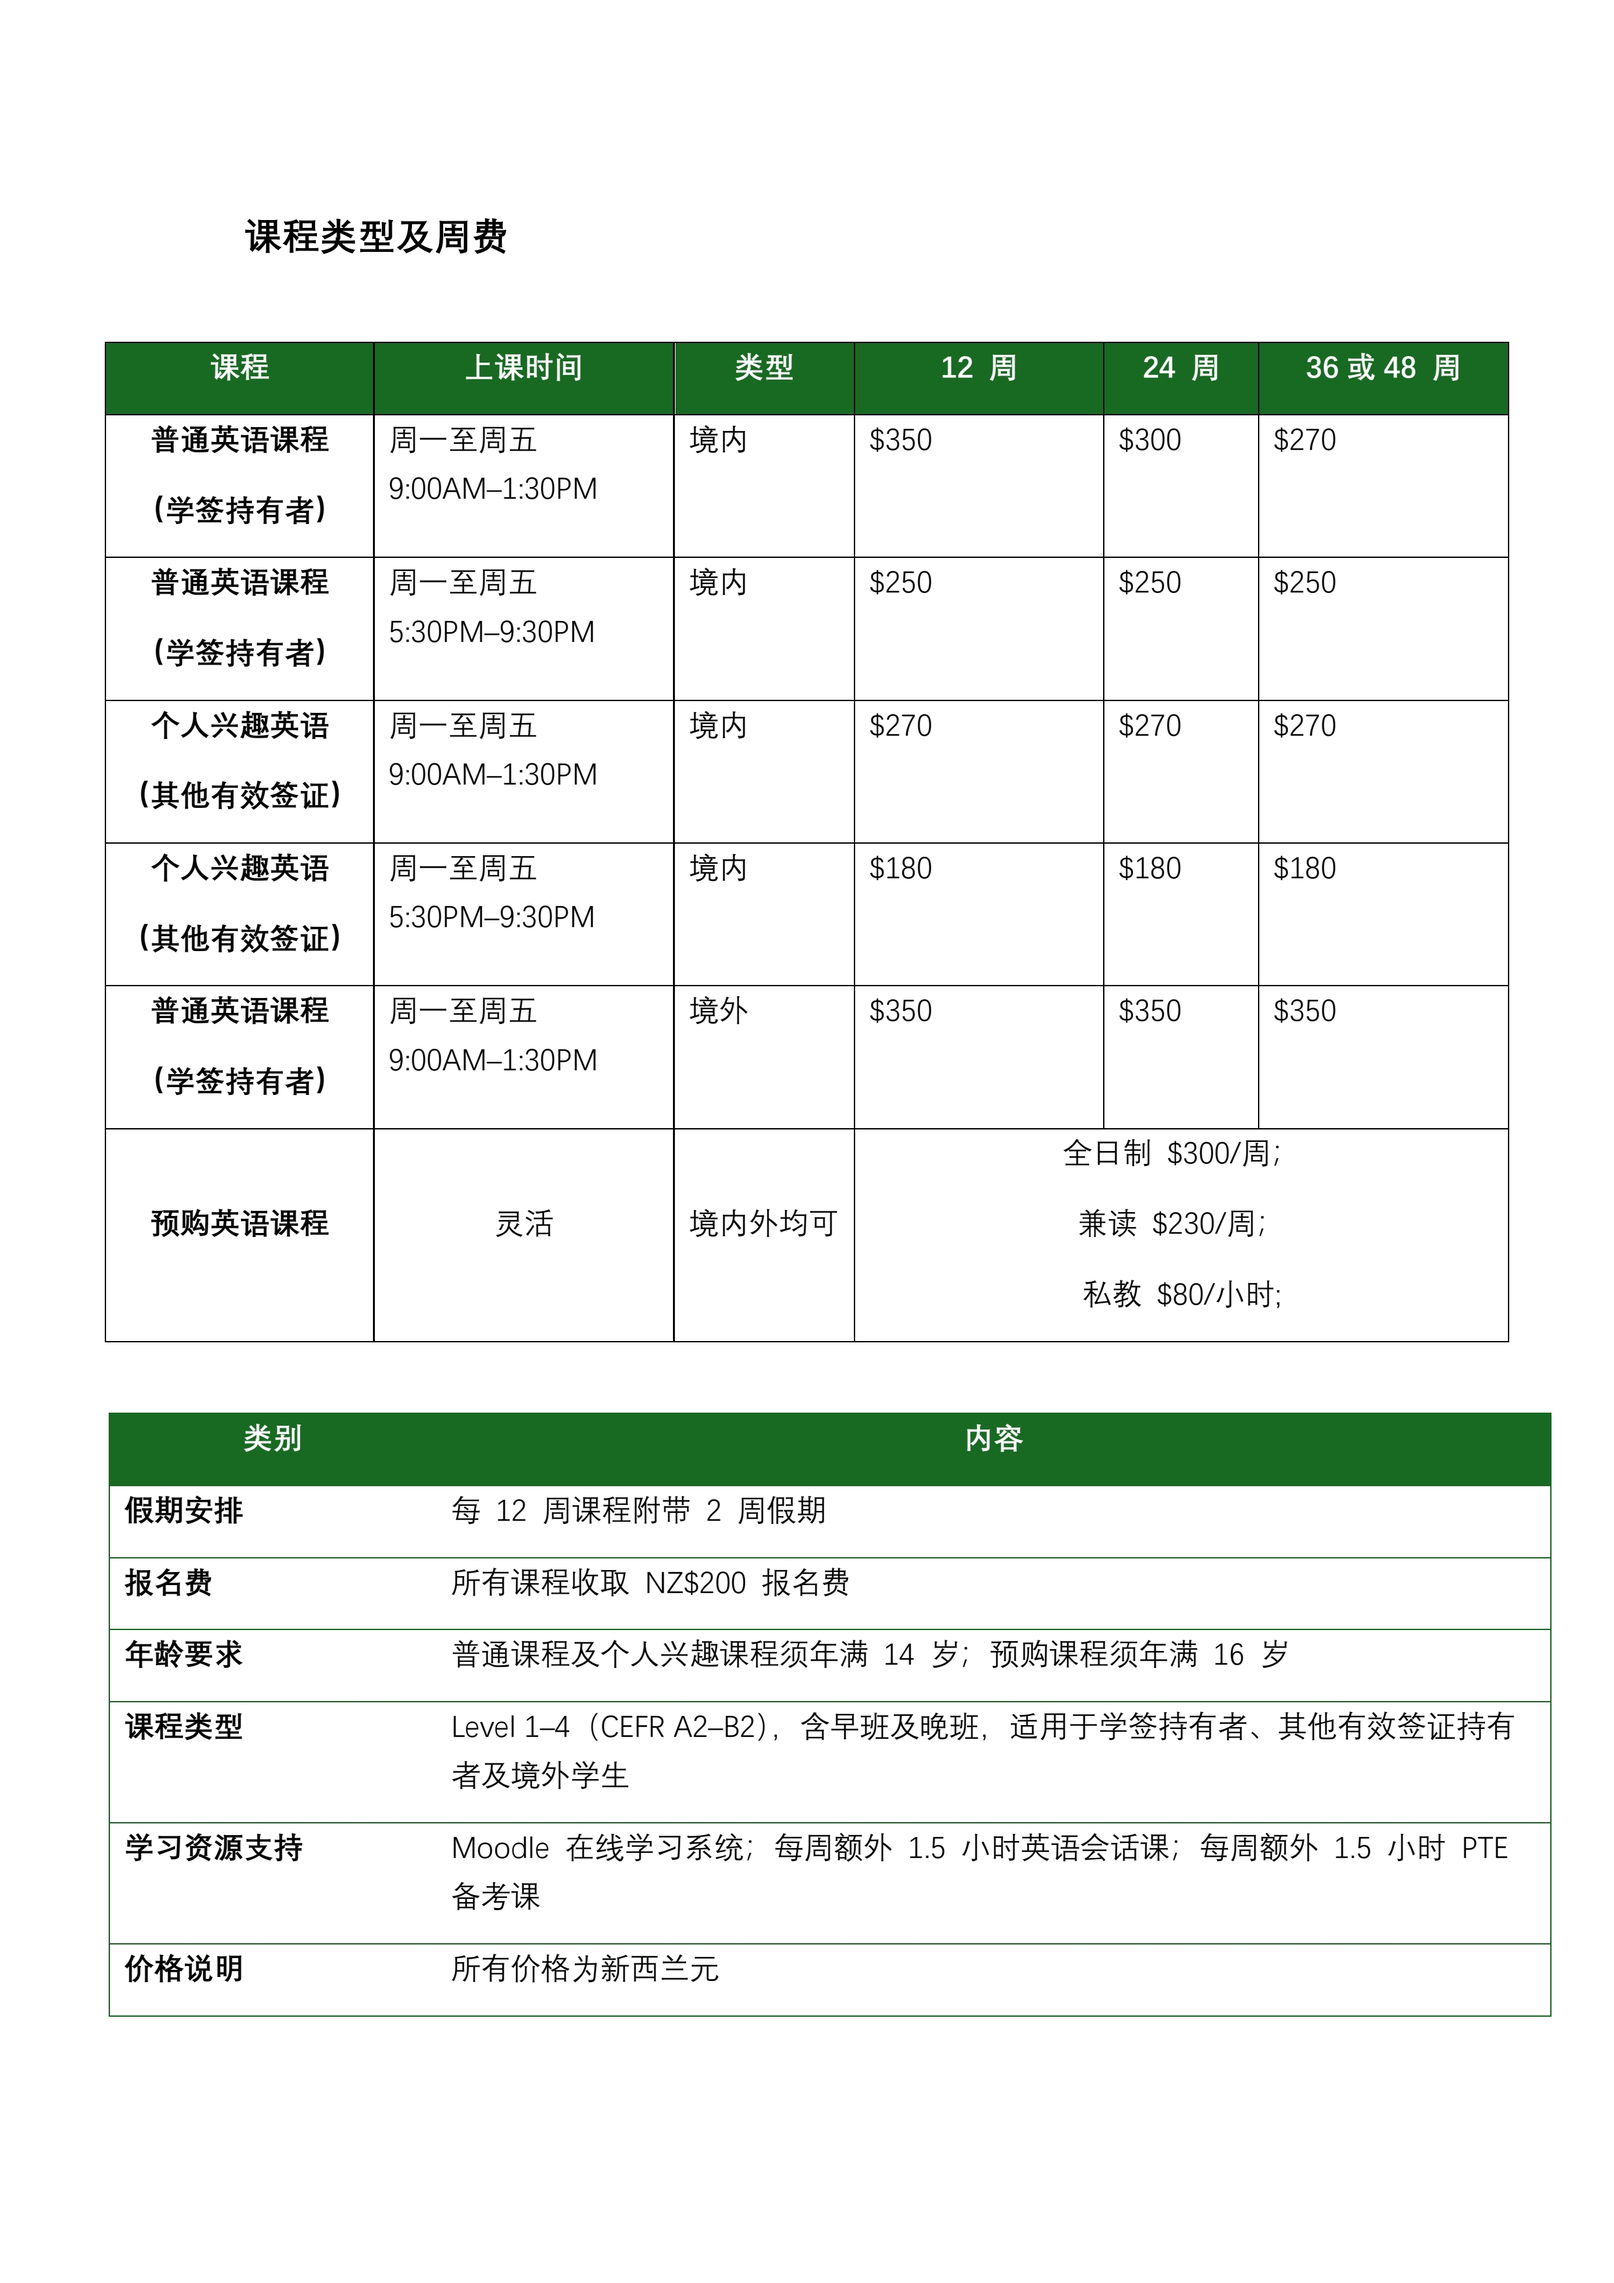
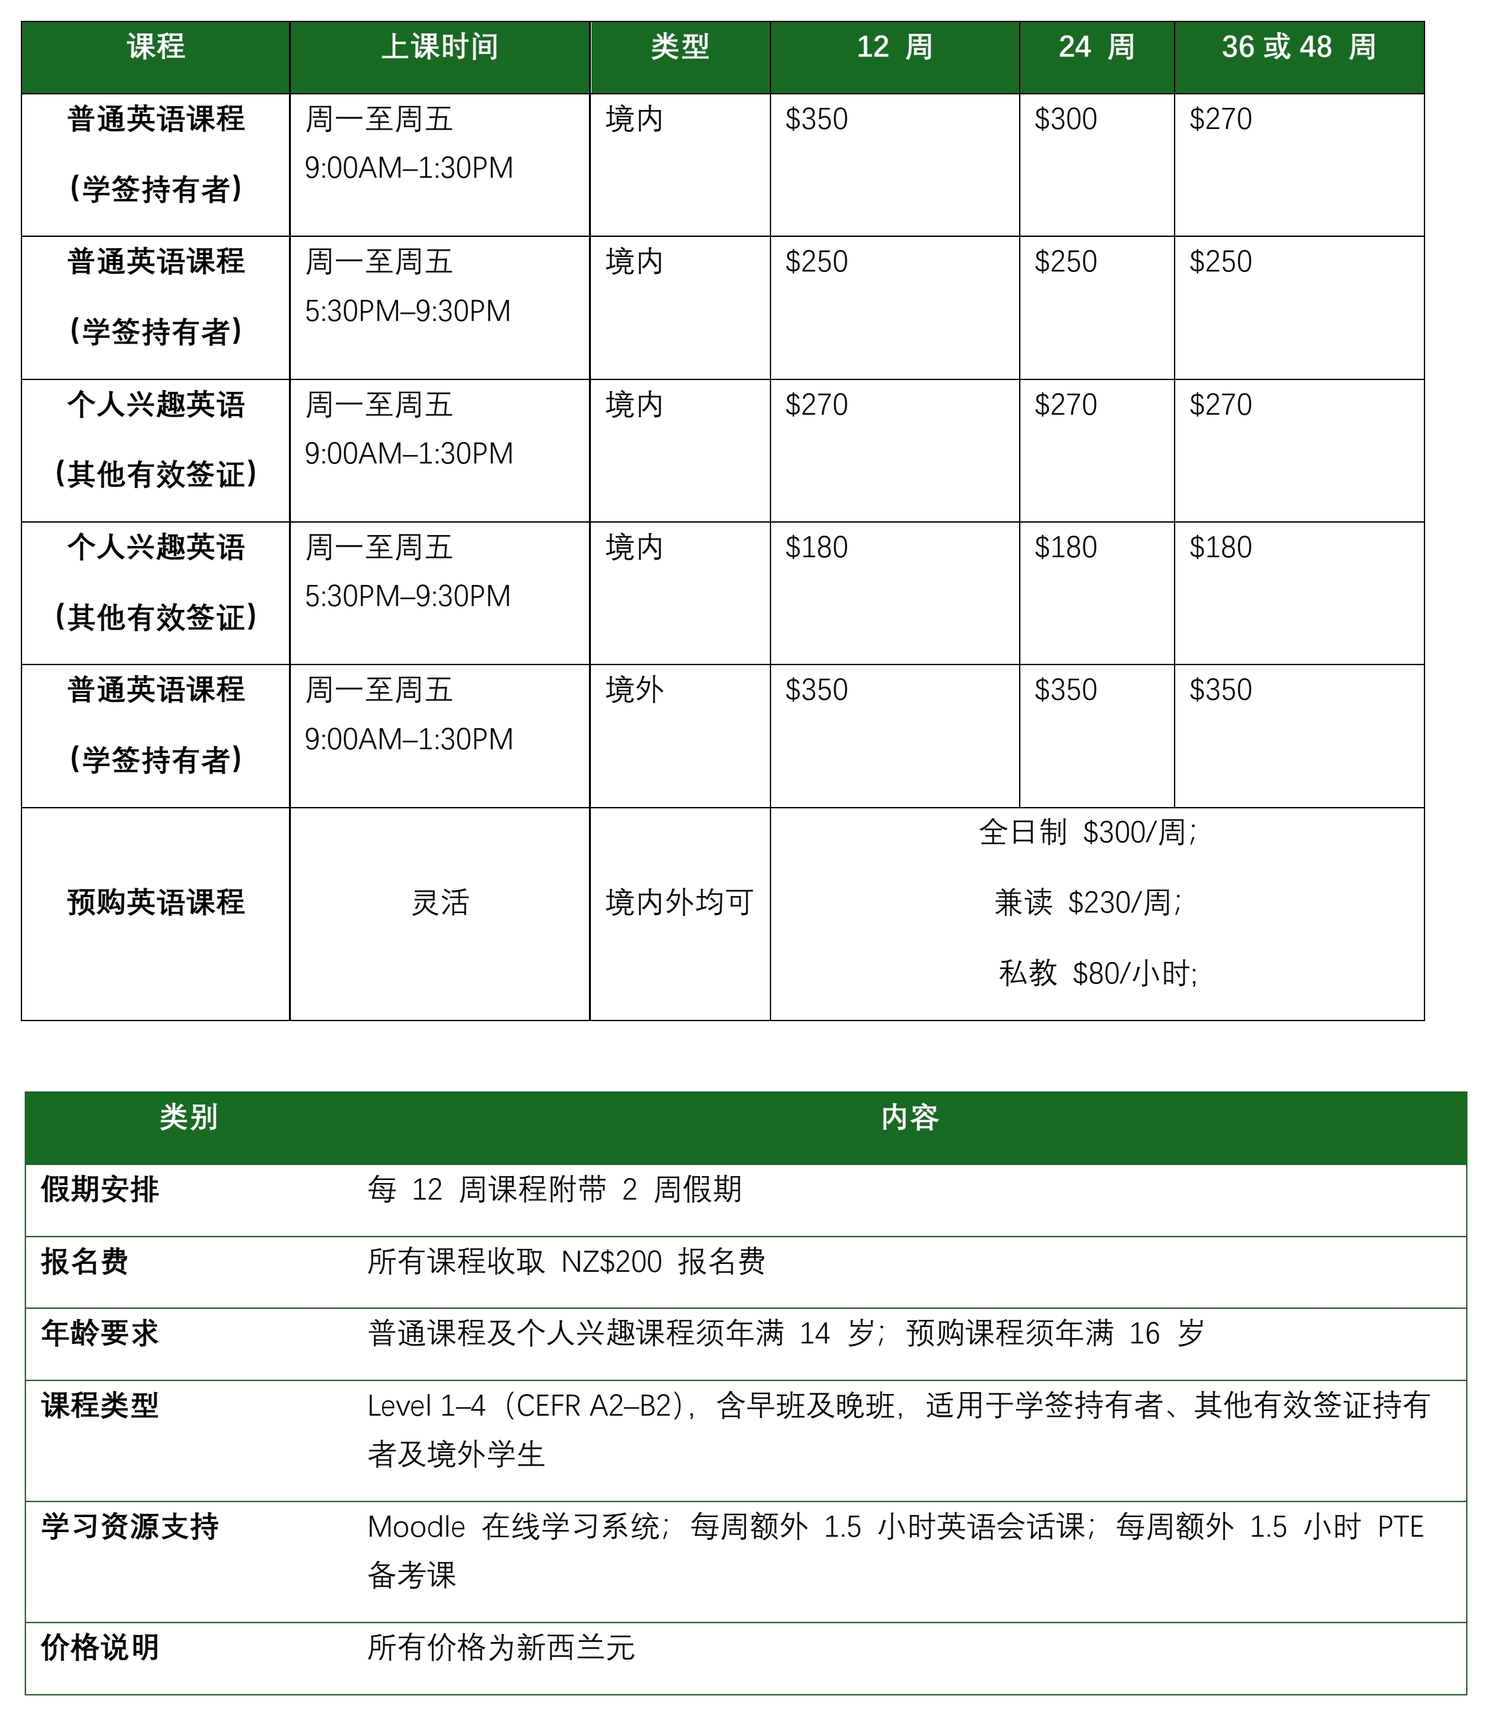
up

diff --git a/ddimmigration/src/data/studyData.js b/ddimmigration/src/data/studyData.js
@@ -133,6 +133,25 @@ export const studySections = [
           '每周额外 1.5 小时英语会话课、1.5 小时 PTE 备考课',
         ],
       },
+      {
+        id: 'worldwide',
+        type: '语言班',
+        titleZh: 'Worldwide 英语与雅思课程',
+        titleEn: 'Worldwide English & IELTS Programmes',
+        image: '/pic/study/worldwide.jpg',
+        highlight: 'GE/IELTS 全日制、夜校、兼读；仅限全日制普通英语及学术英语（每周 20 小时）；价格已含 GST',
+        cost: '报名费 $270\nGE/IELTS 境外（周一至周四 9:00–14:30，周五 9:00–12:00）：2–11 周 $380/周，12–23 周 $370/周，24–31 周 $360/周，32+ 周 $350/周\nGE/IELTS 境内：2–11 周 $360/周，12–23 周 $350/周，24–31 周 $340/周，32+ 周 $330/周\n夜校（周一至周四 16:30–21:30）境内外：2–11 周 $350/周，12–23 周 $340/周，24–31 周 $330/周，32+ 周 $320/周\n兼读（周一至周五 9:00–12:00）境内外：$270–$350/周（报越久越优惠）',
+        detail: '报名时间 2025 年 12 月 20 日–2026 年 6 月 30 日；须在 2026 年 12 月 21 日前开课。资源费：每周 $5（上限 $100）；雅思每 block $100；剑桥英语 $700。不可与其他优惠叠加。',
+        schedule: 'GE/IELTS：周一至周四 9:00–14:30，周五 9:00–12:00；夜校：周一至周四 16:30–21:30；兼读：周一至周五 9:00–12:00',
+        languageReq: '适合各水平，入学分班',
+        academicReq: '须年满 18 岁',
+        intakes: '报名 2025.12.20–2026.6.30，开课须在 2026.12.21 前',
+        prospects: [
+          'GE/IELTS 全日制、夜校、兼读多种选择',
+          '境内外均可，报越久越优惠',
+          '夜校须视座位及英语水平，须 2026 年开课',
+        ],
+      },
     ],
   },
   {
